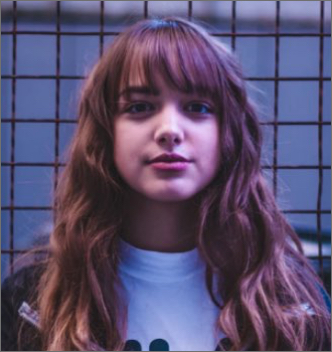
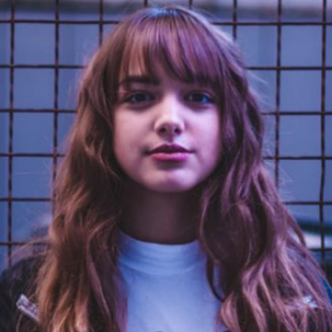
Profile

diff --git a/index.html b/index.html
@@ -9,7 +9,29 @@
     <link rel="stylesheet" href="assets/css/style.css">
 </head>
 <body>
-    
+    <div class="flex-container">
+        <div class="first-item">
+            <div class="profile">
+                <img src="assets/img/profile.jpg" alt="">
+                <div class="profile-text">
+                    <h2>Maria</h2>
+                    <h6>Activa ahora</h6>
+                </div>
+                <div class="profile-icons">
+                    <i class="fa-regular fa-message"></i>
+                    <i class="fa-solid fa-bars"></i>
+                </div>
+            </div>
+            <div class="btn-container">
+                <div class="btn">
+                    <a href="#">Nuevo Chat</a>
+                </div>
+            </div>
+        </div>
+        <div class="second-item">
+
+        </div>
+    </div>
 
     <!-- FontAwesome -->
     <script src="https://kit.fontawesome.com/f0272e1096.js" crossorigin="anonymous"></script>

diff --git a/assets/css/style.css b/assets/css/style.css
@@ -1,0 +1,50 @@
+@import url('https://fonts.googleapis.com/css2?family=Open+Sans:wght@400;600&display=swap');
+*{
+    font-family: 'Open Sans', sans-serif;
+}
+body{
+    margin: 0;
+}
+.flex-container{
+    display: flex;
+}
+.first-item{
+    width: 20%;
+}
+.second-item{
+    width: 75%;
+}
+.profile{
+    display: flex;
+    align-items: center;
+    justify-content: space-around;
+    padding: 3% 15% 3% 15%;
+    box-sizing: border-box;
+    border: 1px solid #E8EBE4;
+}
+.profile-text{
+    display: inline-block;
+    margin-right: 17%;
+}
+.profile img{
+    border-radius: 50%;
+    width: 15%;
+    border: 1px solid #E8EBE4;
+}
+.profile-icons i{
+    font-size: 1.5rem;
+    padding: 5px;
+    color: #828485;
+}
+h2, h6{
+    margin: 0;
+}
+h2{
+    font-weight: 600;
+    font-size: 16px;
+}
+h6{
+    font-weight: 400;
+    font-size: 10px;
+    color: #BEC1BB;
+}
